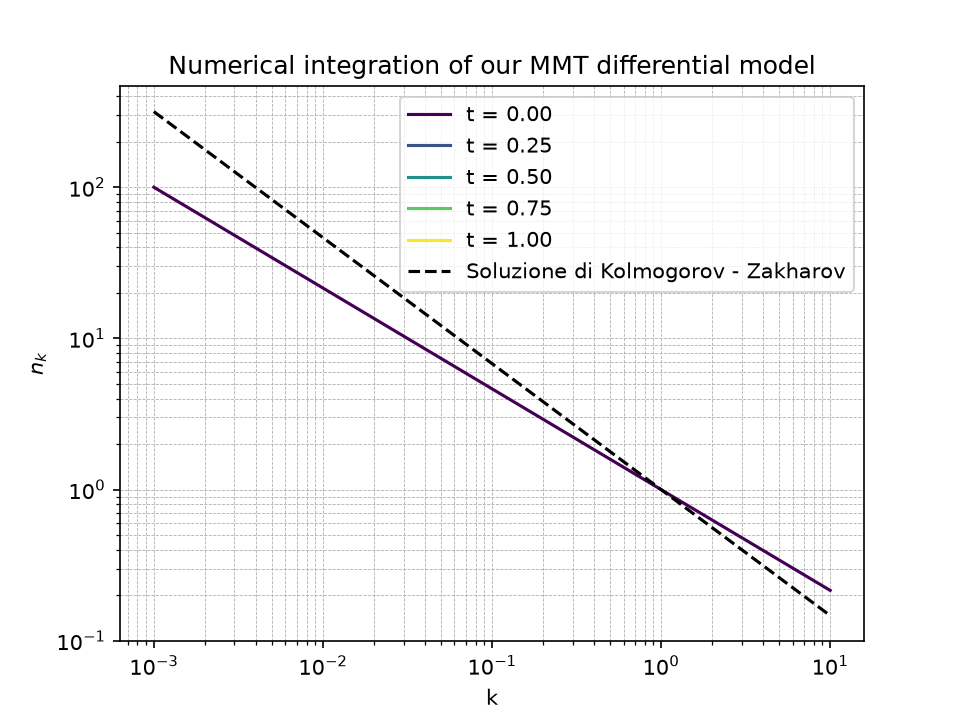
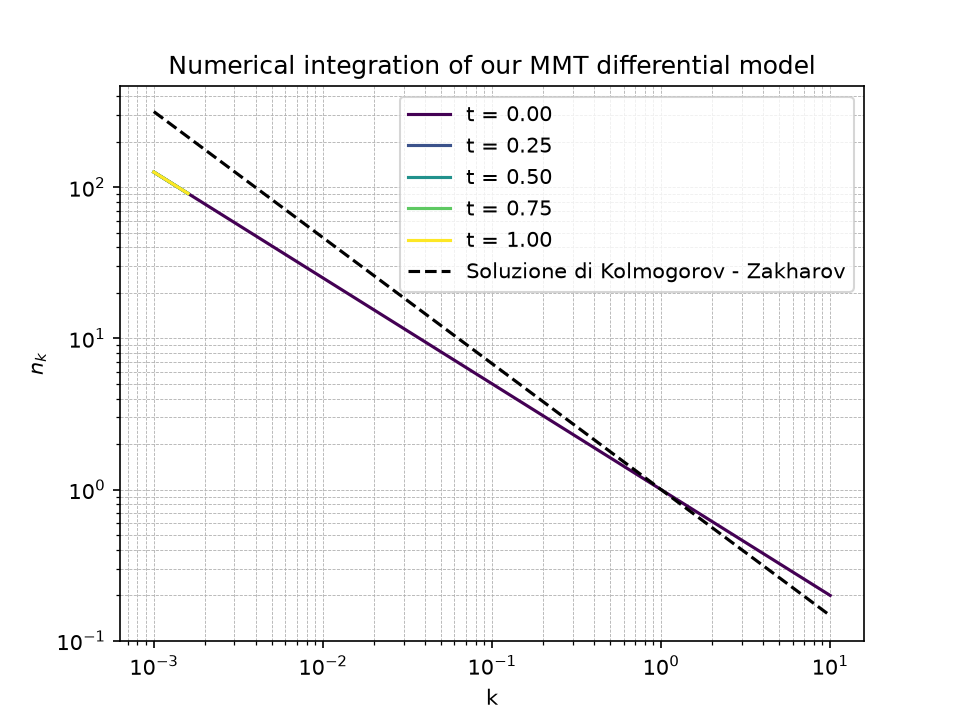
Refactor code structure for improved readability and maintainability

diff --git a/DAM.py b/DAM.py
@@ -23,7 +23,7 @@ def d2ndk2_center(n, k, dlnk):
     d2n_dlnk2 = np.zeros_like(n)
     dn_dlnk = np.zeros_like(n)
 
-    dn_dlnk = dndk_upwind(n, k, dlnk)
+    dn_dlnk = dndk_upwind(n, k, dlnk)*k
     d2n_dlnk2[1:-1] = (n[2:] - 2 * n[1:-1] + n[:-2]) / (dlnk ** 2)
 
     d2n_dk2 = d2n_dlnk2 - dn_dlnk
@@ -56,8 +56,17 @@ def rhs(t, n, k, n_left_fix, dlnk , eta1, eta2, k_min, k_max, p):
     
     N = np.trapezoid(n, k)
 
-    dndt = - N * (-eta1 * (1/n) * dndk + eta1 * (k / (n ** 2)) * (dndk ** 2) - eta1 * (k/n) * d2ndk2 + eta2 * (2*k/(n ** 2)) * (dndk ** 2) - 2 * eta2 * ((k ** 2)/(n ** 3)) * (dndk ** 3) + 2 * eta2 * ((k ** 2)/(n ** 2)) * dndk * d2ndk2)
-    #dndt[:6] = 0.0
+    omega_k = k**0.5
+    domega_dk = 0.5 * (k**(-0.5))
+
+    Phi = -eta1 * k * dndk / n + eta2 * (k**2) * (dndk / n)**2
+
+    dndt_action = - (N**3) * (
+        -eta1 * (1/n) * dndk + eta1 * (k / (n**2)) * (dndk**2) - eta1 * (k/n) * d2ndk2 + eta2 * (2*k/(n**2)) * (dndk**2)
+          - 2 * eta2 * ((k**2)/(n**3)) * (dndk**3) + 2 * eta2 * ((k**2)/(n**2)) * dndk * d2ndk2
+        )
+    dndt = omega_k * dndt_action - N * domega_dk * Phi
+    dndt[:6] = 0.0
 
     return dndt
 
@@ -88,6 +97,7 @@ def integrate(rhs, n0, t_span, dt, k, n_left_fix, dlnk , eta1, eta2, k_min, k_ma
         ns.append(n.copy())
 
     return np.array(ts), np.array(ns)
+
 
 def plot_results(ts, ns, n_snap, k, save_path = None, show = True):
 

diff --git a/main_DAM.py b/main_DAM.py
@@ -8,9 +8,11 @@ k, dlnk = k_space(1e-3, 10, 100)
 p = np.asarray(k)
 k_min = np.min(k)
 k_max = np.max(k)
-n_k = initial_condition(1.0, k, -2/3)
+n_k = initial_condition(1.0, k, -7/10)
 
 n_left_fix = n_k[:6].copy()
+
+N = np.trapezoid(n_k, k)
 
 ts, ns = integrate(rhs, n_k, (0.0, 1.0),  1e-6, k, n_left_fix, dlnk, eta1, eta2, k_min, k_max, p)
 

diff --git a/README.md b/README.md
@@ -1,1 +1,5 @@
 # DAM_integration
+
+We're creating a numerical solver for our Differential approximation model (DAM) of the Majda-McLaughlin-Tabak (MMT) model. The differential model focuses on a low order approximation of the MMT flux, by constructing a sort of parabolic model built on the spectral power *p*.
+
+With this numerical integration we're trying to evolve the obtained system in order to reproduce some notable cases such as the direct energy cascade that leads the action spectral density *$n_k$* to the known *#Kolmogorov-Zakharov#* solution 
